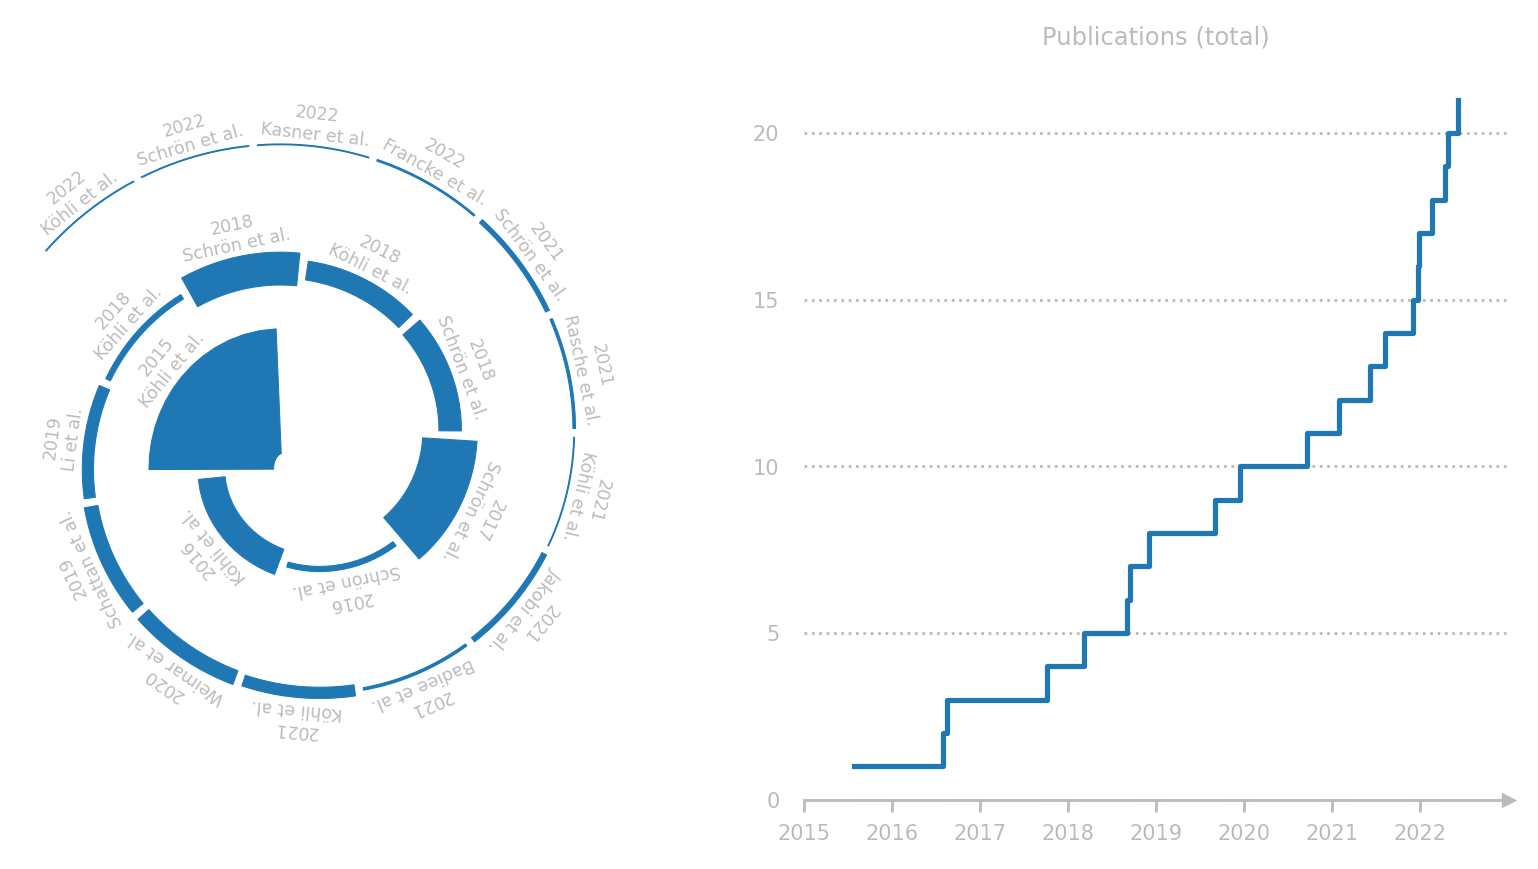
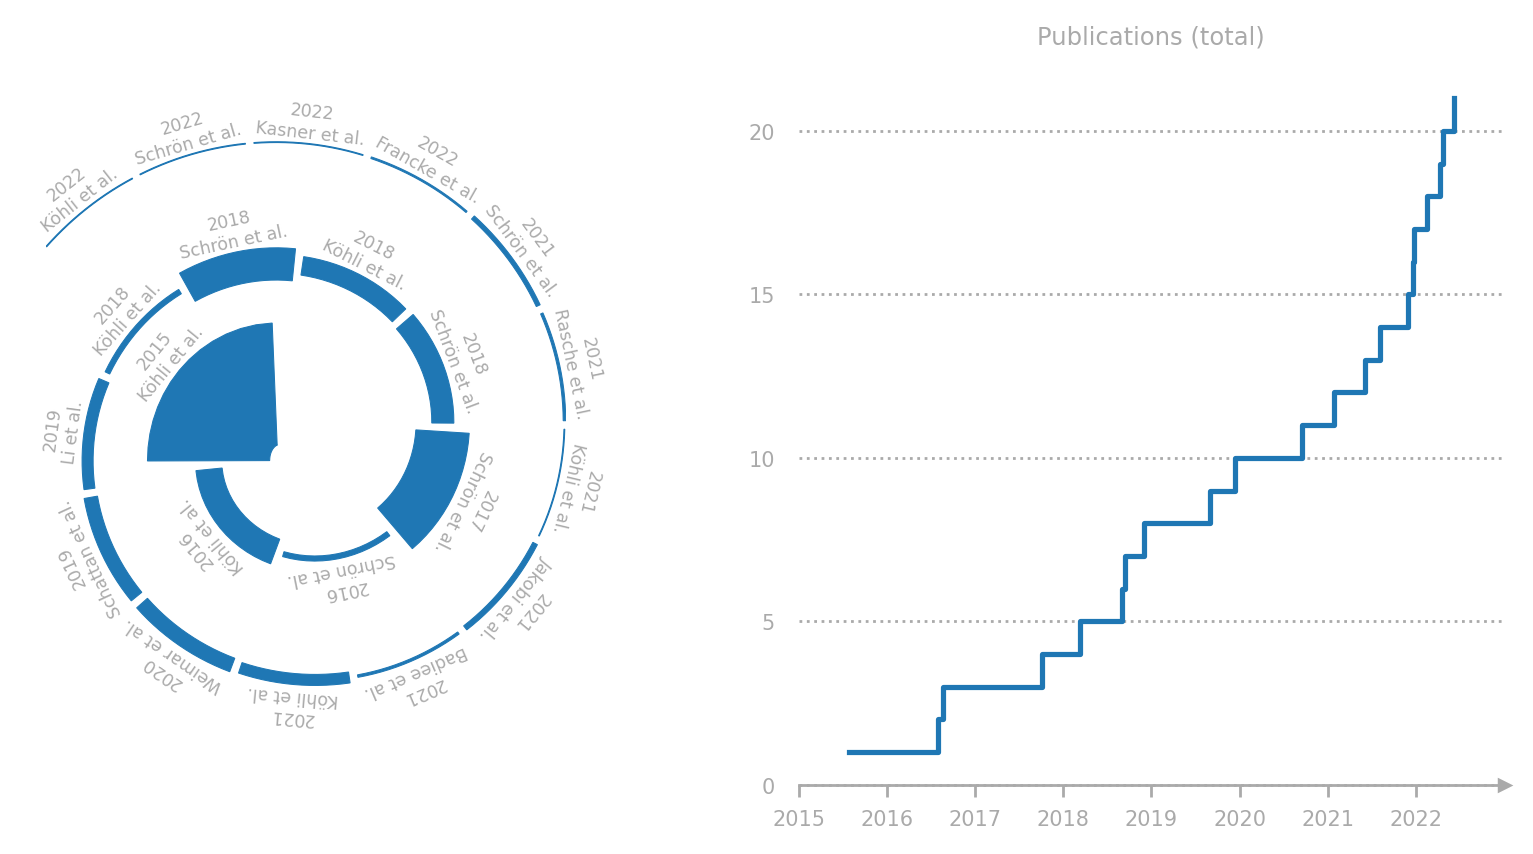
Code cleaning

diff --git a/doc/scripts/make_uranos_pubs.py b/doc/scripts/make_uranos_pubs.py
@@ -5,19 +5,32 @@
 # %%
 from publib import PubList
 from datetime import date
+import compress_pickle as pickle
 
 # %%
+"""
+Download publication data and metadata content, cache as pickle.
+Skip this when no database updates are required or CrossRef has timeout issues.
+"""
 P = PubList()
 P.import_csv('publications-uranos.csv').update_citations().sort('date')
 
-# %%
-import compress_pickle as pickle
 with open('pubdata-cache.bz2', 'wb') as file:
     pickle.dump(P, file)
+
+# %%
+"""
+Load data from pickle.
+"""
 with open('pubdata-cache.bz2', 'rb') as file:
     P = pickle.load(file)
 
 # %%
+"""
+Make a markdown document and save it
+"""
+filename_markdown = '../PUBLICATIONS.md'
+
 content = """
 # Publications using URANOS ({num:.0f})
 
@@ -35,13 +48,16 @@ Citations: **{cites:.0f}** (based on [CrossRef.org](https://www.crossref.org/))
         format_str = '- `{year}` {author}  \n**"{title}"**  \n— *{journal}*, doi:[{doi}]({url}), Citations: **{cited}**  \n')
 )[1:]
 
-# %%
-with open('../PUBLICATIONS.md', 'w', encoding="utf-8") as fh:
+with open(filename_markdown, 'w', encoding="utf-8") as fh:
     fh.write(content)
     
 # %%
+"""
+Create a dataframe and make labels
+"""
 import numpy as np
 from pandas import DataFrame, to_datetime
+
 plotdata = P.data[['year','date','authors','cites']]
 plotdata['firstauthor'] = [x[0] for x in plotdata.authors]
 plotdata['label'] = ['{1}\n{0} et al.'.format(x[0], y) for x,y in zip(plotdata.authors, plotdata.year)]
@@ -52,12 +68,20 @@ plotdata['num'] = np.cumsum(plotdata['num'])
 plotdata
 
 # %%
-import matplotlib.pyplot as plt
+"""
+Make a plot and save it as png
+"""
 # Corny package from: https://git.ufz.de/CRNS/cornish_pasdy
 from corny.figures import Figure
 # Sprial package from: https://github.com/skokg/Spiral-strip
 from spiral_strip_library_v04 import *
 
+filename_figure = '../pubplot.png'
+
+color_data   = '#1f77b4'
+color_labels = '#AAAAAA'
+
+# Spiral params
 radius          = 0
 space           = 0
 rotation        = 110 # try to keep the latest paper on top
@@ -67,18 +91,8 @@ segment_gap     = 10
 label_padding   = 25
 label_fontsize  = 5
 
-color_data   = '#1f77b4'
-color_labels = '#BBBBBB'
-
-#themes = dict(#
-#    dark  = dict(style='default',         nametag='-light', fgcolor='black', datacolor='#1f77b4'),
-#    light = dict(style='dark_background', nametag='-dark',  fgcolor='white', datacolor='#1f77b4'))
-
-#58a6ff
-#for theme in themes:
-#    plt.style.use(themes[theme]['style'])
 with Figure(layout=(1,2), size=(8,4),
-    save='../pubplot.png') as axes:
+    save=filename_figure) as axes:
     
     ax = axes[0]
     draw_spiral_strip(r0=radius, space=space, fi0_deg=rotation,
@@ -107,3 +121,12 @@ with Figure(layout=(1,2), size=(8,4),
     ax.spines["bottom"].set_position(("data", 0))
     ax.spines["bottom"].set_color(color_labels)
     ax.plot(1, 0, ">", color=color_labels, transform=ax.get_yaxis_transform(), markersize=3, clip_on=False)
+
+# %%
+# Backup of tests with themeing
+# import matplotlib.pyplot as plt
+#themes = dict(#
+#    dark  = dict(style='default',         nametag='-light', fgcolor='black', datacolor='#1f77b4'),
+#    light = dict(style='dark_background', nametag='-dark',  fgcolor='white', datacolor='#1f77b4'))
+#for theme in themes:
+#    plt.style.use(themes[theme]['style'])
